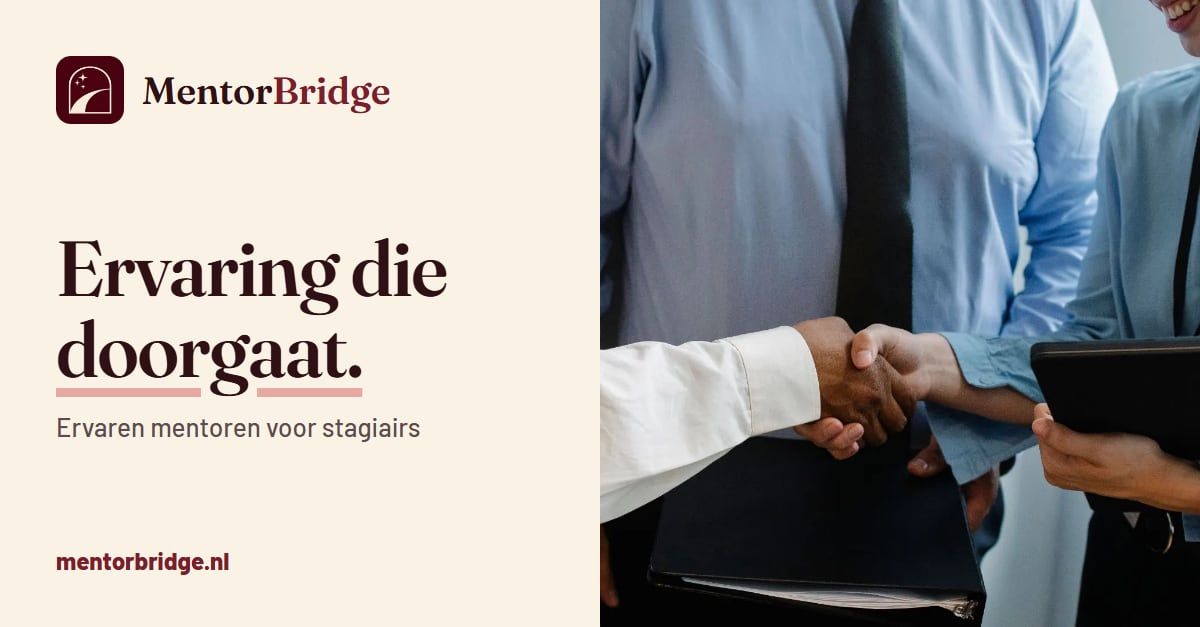
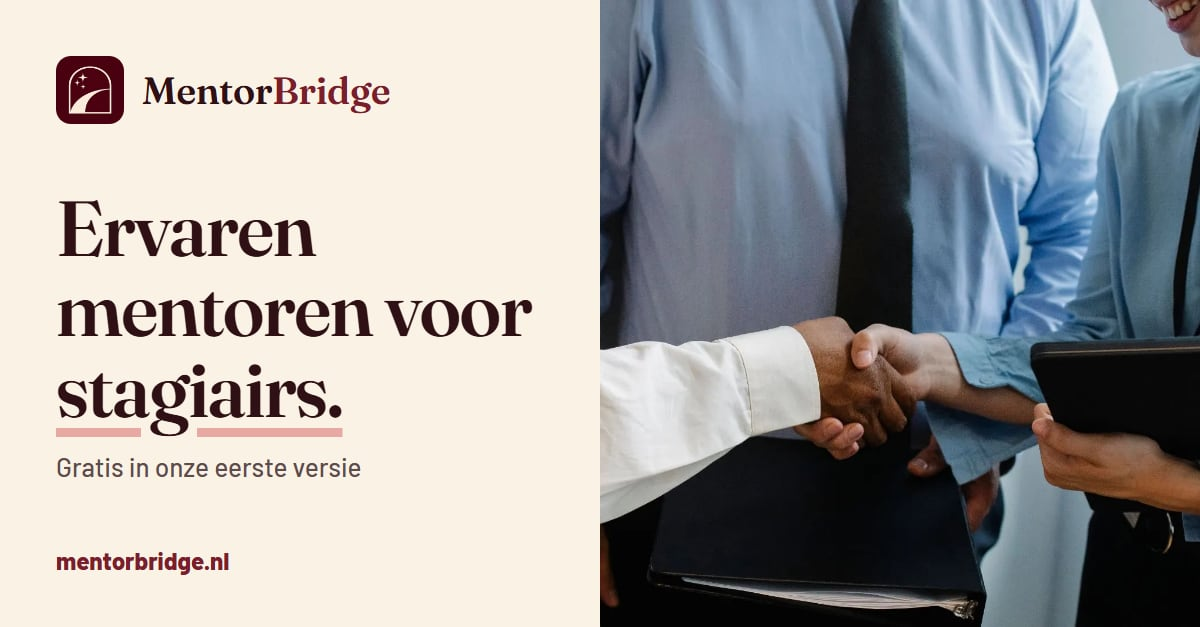
Copy review: consistent, straightforward pages
- Front page H1 "Experienced mentors for student interns." (matches the title); link previews re-rendered.
- Student page: intro says find and prepare (like the title and description), "Free for students".
- Student follow-up: three questions; the overlapping "What would help you most?" is removed.
- Companies page points match the three options: own staff, a mentor for the interns, white label.
- Company form offers the same three options ("A mentor for our interns" is new); mentor age ranges
  cover all working ages. Migration 0007 updates the two database checks; API and tests follow.

Changed region(s): [[0.0308, 0.303, 0.4625, 0.697], [0.0308, 0.7273, 0.3083, 0.7576]]

diff --git a/landing/partials/signup.html b/landing/partials/signup.html
@@ -2,7 +2,7 @@
   The one waiting list form, used on the student, mentor and company pages.
   The page's segment fills in the role. main.js shows only the fields for that role
   (data-for-role) and disables the rest, so hidden fields are neither checked nor sent.
-  The options must match server/src/routes/pilotRequests.js and supabase/migrations/0006.
+  The options must match server/src/routes/pilotRequests.js and supabase/migrations/0006 and 0007.
 -->
 <div class="form-card" id="pilot-panel">
   <form id="pilot-form" class="flex flex-col gap-5" novalidate>
@@ -63,11 +63,11 @@
         <label for="age_range">Age</label>
         <select id="age_range" name="age_range" required>
           <option value="" selected>Choose</option>
-          <option value="under-55">Under 55</option>
-          <option value="55-59">55–59</option>
-          <option value="60-64">60–64</option>
-          <option value="65-69">65–69</option>
-          <option value="70+">70 or older</option>
+          <option value="under-30">Under 30</option>
+          <option value="30-39">30–39</option>
+          <option value="40-49">40–49</option>
+          <option value="50-59">50–59</option>
+          <option value="60+">60 or older</option>
         </select>
       </div>
       <div class="field">
@@ -117,8 +117,8 @@
       <legend>How would you like to use MentorBridge? <span class="font-normal text-muted">Optional.</span></legend>
       <div class="choices">
         <label><input type="radio" name="interest" value="internal" /><span>Inside our own company</span></label>
-        <label><input type="radio" name="interest" value="white_label" /><span>White label, under our own name</span></label>
-        <label><input type="radio" name="interest" value="both" /><span>Both</span></label>
+        <label><input type="radio" name="interest" value="external" /><span>A mentor for our interns</span></label>
+        <label><input type="radio" name="interest" value="white_label" /><span>Under our own name (white label)</span></label>
       </div>
     </fieldset>
 
@@ -144,7 +144,7 @@
     <div class="flex flex-col gap-1">
       <p class="text-sm font-bold text-accent">You're on the waiting list</p>
       <h3 class="h3">Help us match you better</h3>
-      <p class="text-muted">Four quick questions. All of them are optional.</p>
+      <p class="text-muted">Three quick questions. All of them are optional.</p>
     </div>
 
     <fieldset class="question">
@@ -166,17 +166,7 @@
     </fieldset>
 
     <fieldset class="question">
-      <legend>3. What would help you most? <span class="font-normal text-muted">Choose any.</span></legend>
-      <div class="choices">
-        <label><input type="checkbox" name="help_wanted" value="cv" /><span>CV and applications</span></label>
-        <label><input type="checkbox" name="help_wanted" value="interviews" /><span>Interview practice</span></label>
-        <label><input type="checkbox" name="help_wanted" value="insight" /><span>What the work is really like</span></label>
-        <label><input type="checkbox" name="help_wanted" value="introductions" /><span>Introductions to companies</span></label>
-      </div>
-    </fieldset>
-
-    <fieldset class="question">
-      <legend>4. When does your internship start, or when do you need one by?</legend>
+      <legend>3. When does your internship start, or when do you need one by?</legend>
       <div class="choices">
         <label><input type="radio" name="needed_by" value="0-3" /><span>Within 3 months</span></label>
         <label><input type="radio" name="needed_by" value="3-6" /><span>In 3 to 6 months</span></label>

diff --git a/server/test/app.test.js b/server/test/app.test.js
@@ -12,7 +12,7 @@ const valid = {
   sector: 'construction',
   consent: true,
 }
-const mentor = { role: 'mentor', name: 'Pieter', email: 'p@x.nl', age_range: '60-64', hours_per_month: '3-5', availability: ['evenings'], consent: true }
+const mentor = { role: 'mentor', name: 'Pieter', email: 'p@x.nl', age_range: '40-49', hours_per_month: '3-5', availability: ['evenings'], consent: true }
 const student = { role: 'student', name: 'Lisa', email: 'l@x.nl', sector: 'ict', skills_help: 'both', availability: ['weekdays', 'weekends'], consent: true }
 
 describe('GET /api/health', () => {
@@ -46,7 +46,7 @@ describe('validatePilotRequest', () => {
 
   it('accepts a mentor without a sector and a student with one', () => {
     expect(validatePilotRequest(mentor)).toEqual({
-      role: 'mentor', name: 'Pieter', email: 'p@x.nl', availability: ['evenings'], age_range: '60-64', hours_per_month: '3-5',
+      role: 'mentor', name: 'Pieter', email: 'p@x.nl', availability: ['evenings'], age_range: '40-49', hours_per_month: '3-5',
     })
     expect(validatePilotRequest({ ...mentor, sector: 'logistics' }).sector).toBe('logistics')
     expect(validatePilotRequest({ ...student, availability: ['weekends', 'weekdays', 'weekends'] })).toEqual({
@@ -82,6 +82,8 @@ describe('validatePilotRequest', () => {
     [{ ...valid, sector: 'mining' }, 'sector from the list'],
     [{ ...valid, company_size: '5' }, 'company size'],
     [{ ...valid, interest: 'resell' }, 'how you would like'],
+    [{ ...valid, interest: 'both' }, 'how you would like'],
+    [{ ...mentor, age_range: '55-59' }, 'age range'],
     [{ ...valid, role: 'admin' }, 'student, mentor or company'],
     [{ ...valid, role: undefined }, 'student, mentor or company'],
     [{ ...valid, consent: 'yes' }, 'privacy statement'],

diff --git a/landing/index.html b/landing/index.html
@@ -5,7 +5,7 @@
     <title>Experienced mentors for student interns | MentorBridge</title>
     <meta
       name="description"
-      content="MentorBridge matches students with experienced professionals from their field, so they start their internship ready. Free in our first version."
+      content="MentorBridge matches students with experienced professionals from their field, so they start their internship ready. Free during our first version."
     />
     <!-- Structured data, the same on the Dutch page, so it stays language-neutral. -->
     <script type="application/ld+json">
@@ -46,7 +46,7 @@
           <div class="hero-card">
             <div class="hero-copy">
               <p class="hero-label">In the Netherlands and Belgium</p>
-              <h1 id="hero-title" class="hero-title">Experience that <span class="underline-bridge">carries on.</span></h1>
+              <h1 id="hero-title" class="hero-title">Experienced mentors for <span class="underline-bridge">student interns.</span></h1>
               <p class="hero-lead">
                 MentorBridge matches students with experienced professionals from their field, who mentor them in their
                 free time. Students start their internship ready.

diff --git a/server/src/routes/pilotRequests.js b/server/src/routes/pilotRequests.js
@@ -6,17 +6,17 @@ const router = Router()
 const ROLES = ['company', 'student', 'mentor']
 const EMAIL_PATTERN = /^[^\s@]+@[^\s@]+\.[^\s@]+$/
 
-// Waiting list options. The same lists are in the form (landing/partials/signup.html) and the database (migration 0006).
+// Waiting list options. The same lists are in the form (landing/partials/signup.html) and the database (migrations 0006 and 0007).
 export const SECTORS = [
   'ict', 'engineering', 'construction', 'logistics', 'healthcare', 'business', 'finance',
   'law', 'education', 'government', 'media', 'hospitality', 'other',
 ]
 const AVAILABILITY = ['weekdays', 'evenings', 'weekends']
-const AGE_RANGES = ['under-55', '55-59', '60-64', '65-69', '70+']
+const AGE_RANGES = ['under-30', '30-39', '40-49', '50-59', '60+']
 const HOURS_PER_MONTH = ['1-2', '3-5', '6-10', '10+']
 const SKILLS_HELP = ['soft', 'hard', 'both']
 const COMPANY_SIZES = ['1-49', '50-249', '250-999', '1000+']
-const INTERESTS = ['internal', 'white_label', 'both']
+const INTERESTS = ['internal', 'external', 'white_label']
 const HOST_PATTERN = /^[a-z0-9.-]+$/i
 
 const HAS_PLACEMENT = ['yes', 'no']

diff --git a/landing/og-template/og.html b/landing/og-template/og.html
@@ -40,8 +40,8 @@
     <div class="photo" id="photo"></div>
     <script>
       const TEXT = {
-        en: { headline: 'Experience that <span class="underline">carries on.</span>', sub: 'Experienced mentors for student interns' },
-        nl: { headline: 'Ervaring die <span class="underline">doorgaat.</span>', sub: 'Ervaren mentoren voor stagiairs' },
+        en: { headline: 'Experienced mentors for <span class="underline">student interns.</span>', sub: 'Free during our first version' },
+        nl: { headline: 'Ervaren mentoren voor <span class="underline">stagiairs.</span>', sub: 'Gratis in onze eerste versie' },
       }
       const params = new URLSearchParams(location.search)
       const lang = params.get('lang') === 'nl' ? 'nl' : 'en'

diff --git a/landing/students/index.html b/landing/students/index.html
@@ -26,13 +26,13 @@
               </h1>
 
               <p class="hero-lead">
-                An experienced professional from your field gets you ready for your internship.
+                A mentor from your field helps you land your internship and get ready for it.
               </p>
 
               <div class="flex flex-col items-start gap-5">
                 <a href="#signup" class="btn btn-primary btn-xl">Join the waiting list</a>
                 <ul class="hero-points" aria-label="What you get">
-                  <li>Free</li>
+                  <li>Free for students</li>
                   <li>A mentor from your field</li>
                   <li>Short, flexible sessions</li>
                 </ul>

diff --git a/landing/companies/index.html b/landing/companies/index.html
@@ -27,8 +27,8 @@
                 <a href="#signup" class="btn btn-primary btn-xl">Join the waiting list</a>
                 <ul class="hero-points" aria-label="What you get">
                   <li>Free during our first version</li>
-                  <li>Start with 1 or 2 mentors</li>
-                  <li>Interns who learn from your most experienced people</li>
+                  <li>Your own staff as mentors, or ours</li>
+                  <li>White label on request</li>
                 </ul>
               </div>
             </div>

diff --git a/docs/addons-status.md b/docs/addons-status.md
@@ -21,7 +21,7 @@ Statuses: `DONE`, `PARTIAL`, `MISSING`, `CONFLICT`, `NOT CODE`, `BLOCKED` (waiti
 | A8 | P1 | CHANGED | Replaced on 11 November: `landing/mentors/index.html` speaks to people with free time next to their job (working, part-time, freelance), not retirees. The front page mentor card, the front page lead and the "Who are the mentors?" answers follow. No health or sickness wording. | The mentor form's age ranges (under 55, 55-59, …) were made for retirees; changing them needs a migration. Does "work on the side" mean paid? The site says no payment at the moment. |
 | A9 | P2 | MISSING | | UNCLEAR: own page or a section on the organization page. |
 | B1 | P1 | DONE | One form (`landing/partials/signup.html`) on all three pages, posted to `POST /api/pilot-requests`. Same table `pilot_requests` with `role`. Success state per segment. Unique index on (role, email) in migration 0006, API returns 409 and the page shows "already on the waiting list". RLS on, no public policies; inserts go through the API with the service key, so nobody can read rows with the public key. | Migration 0006 not applied yet. It deletes 1 existing duplicate row (keeps the oldest). |
-| B2 | P1 | DONE | Company: contact name, work email, organization, role, sector; optional size and interest (internal / white label / both). Mentor: name, email, age range, hours per month, availability; optional sector. Student: name, email, sector, soft/hard/both, availability. Shared sector list, dropdowns and fixed options, age as ranges. Validated in `server/src/routes/pilotRequests.js`, constrained in migration 0006. | Students still get the 4 optional follow-up questions from before. Remove them if the form feels too long. |
+| B2 | P1 | DONE | Company: contact name, work email, organization, role, sector; optional size and interest (internal / white label / both). Mentor: name, email, age range, hours per month, availability; optional sector. Student: name, email, sector, soft/hard/both, availability. Shared sector list, dropdowns and fixed options, age as ranges. Validated in `server/src/routes/pilotRequests.js`, constrained in migration 0006. | Since 11 November: age ranges under 30 to 60+ and a "mentor for our interns" option for companies (migration 0007). Students get 3 optional follow-up questions. |
 | B3 | P1 | DONE | Required consent checkbox linking to `/privacy/`, stored as `consent_at`. Privacy statement: what we store, what we don't, why, legal basis, who sees it, how long, how to see or remove it, where to complain. | TODO in the page: Supabase region, exact project end date, contact email address. |
 | B4 | P2 | BLOCKED | No email sent by the site. | UNCLEAR: what Gmail is for. |
 | C1 | P1 | DONE | `landing/src/main.js` reads `utm_source`, `utm_medium`, `utm_campaign`, the referring host and the first page, keeps them for the session (new UTM tags replace them) and sends them with the sign-up. Stored in new columns. Naming guide: `docs/utm.md`. | |

diff --git a/CHANGELOG.md b/CHANGELOG.md
@@ -25,6 +25,9 @@ All notable changes to MentorBridge. The format follows [Keep a Changelog](https
 - Mentors are described as experienced professionals with some free time next to their job (part-time and freelance too), not retirees. The mentor page targets "become a mentor next to your job".
 - The same email can sign up only once per segment (migration 0006 removes earlier duplicates, keeping the oldest).
 - Shared page parts (head, header, footer, form, contact) live in `landing/partials/`.
+- Copy review for consistency: the front page headline says what MentorBridge is ("Experienced mentors for student interns."); the student page says find and prepare in its intro, like its title, and "Free for students"; the companies page points match its three options.
+- The student follow-up has three questions; "What would help you most?" is gone because the form already asks what students want help with.
+- Migration 0007: mentor age ranges for all working ages (under 30 to 60 or older) and a "A mentor for our interns" option for companies.
 - The third group is called "companies" instead of "organizations" ("bedrijven" in Dutch): menu, cards, the companies page, the form and the API messages.
 - The header button says "Join the waiting list", and "Sign up" on phones so it doesn't cover the logo.
 - Beige design: cream page, header, footer and cards instead of white and dark bands. Dark sections are now red boxes on the beige page (the waiting list box in a darker red), with red buttons and accents, and gold for small labels and numbers inside the boxes. The app preview on the student page keeps the platform's own colours.
